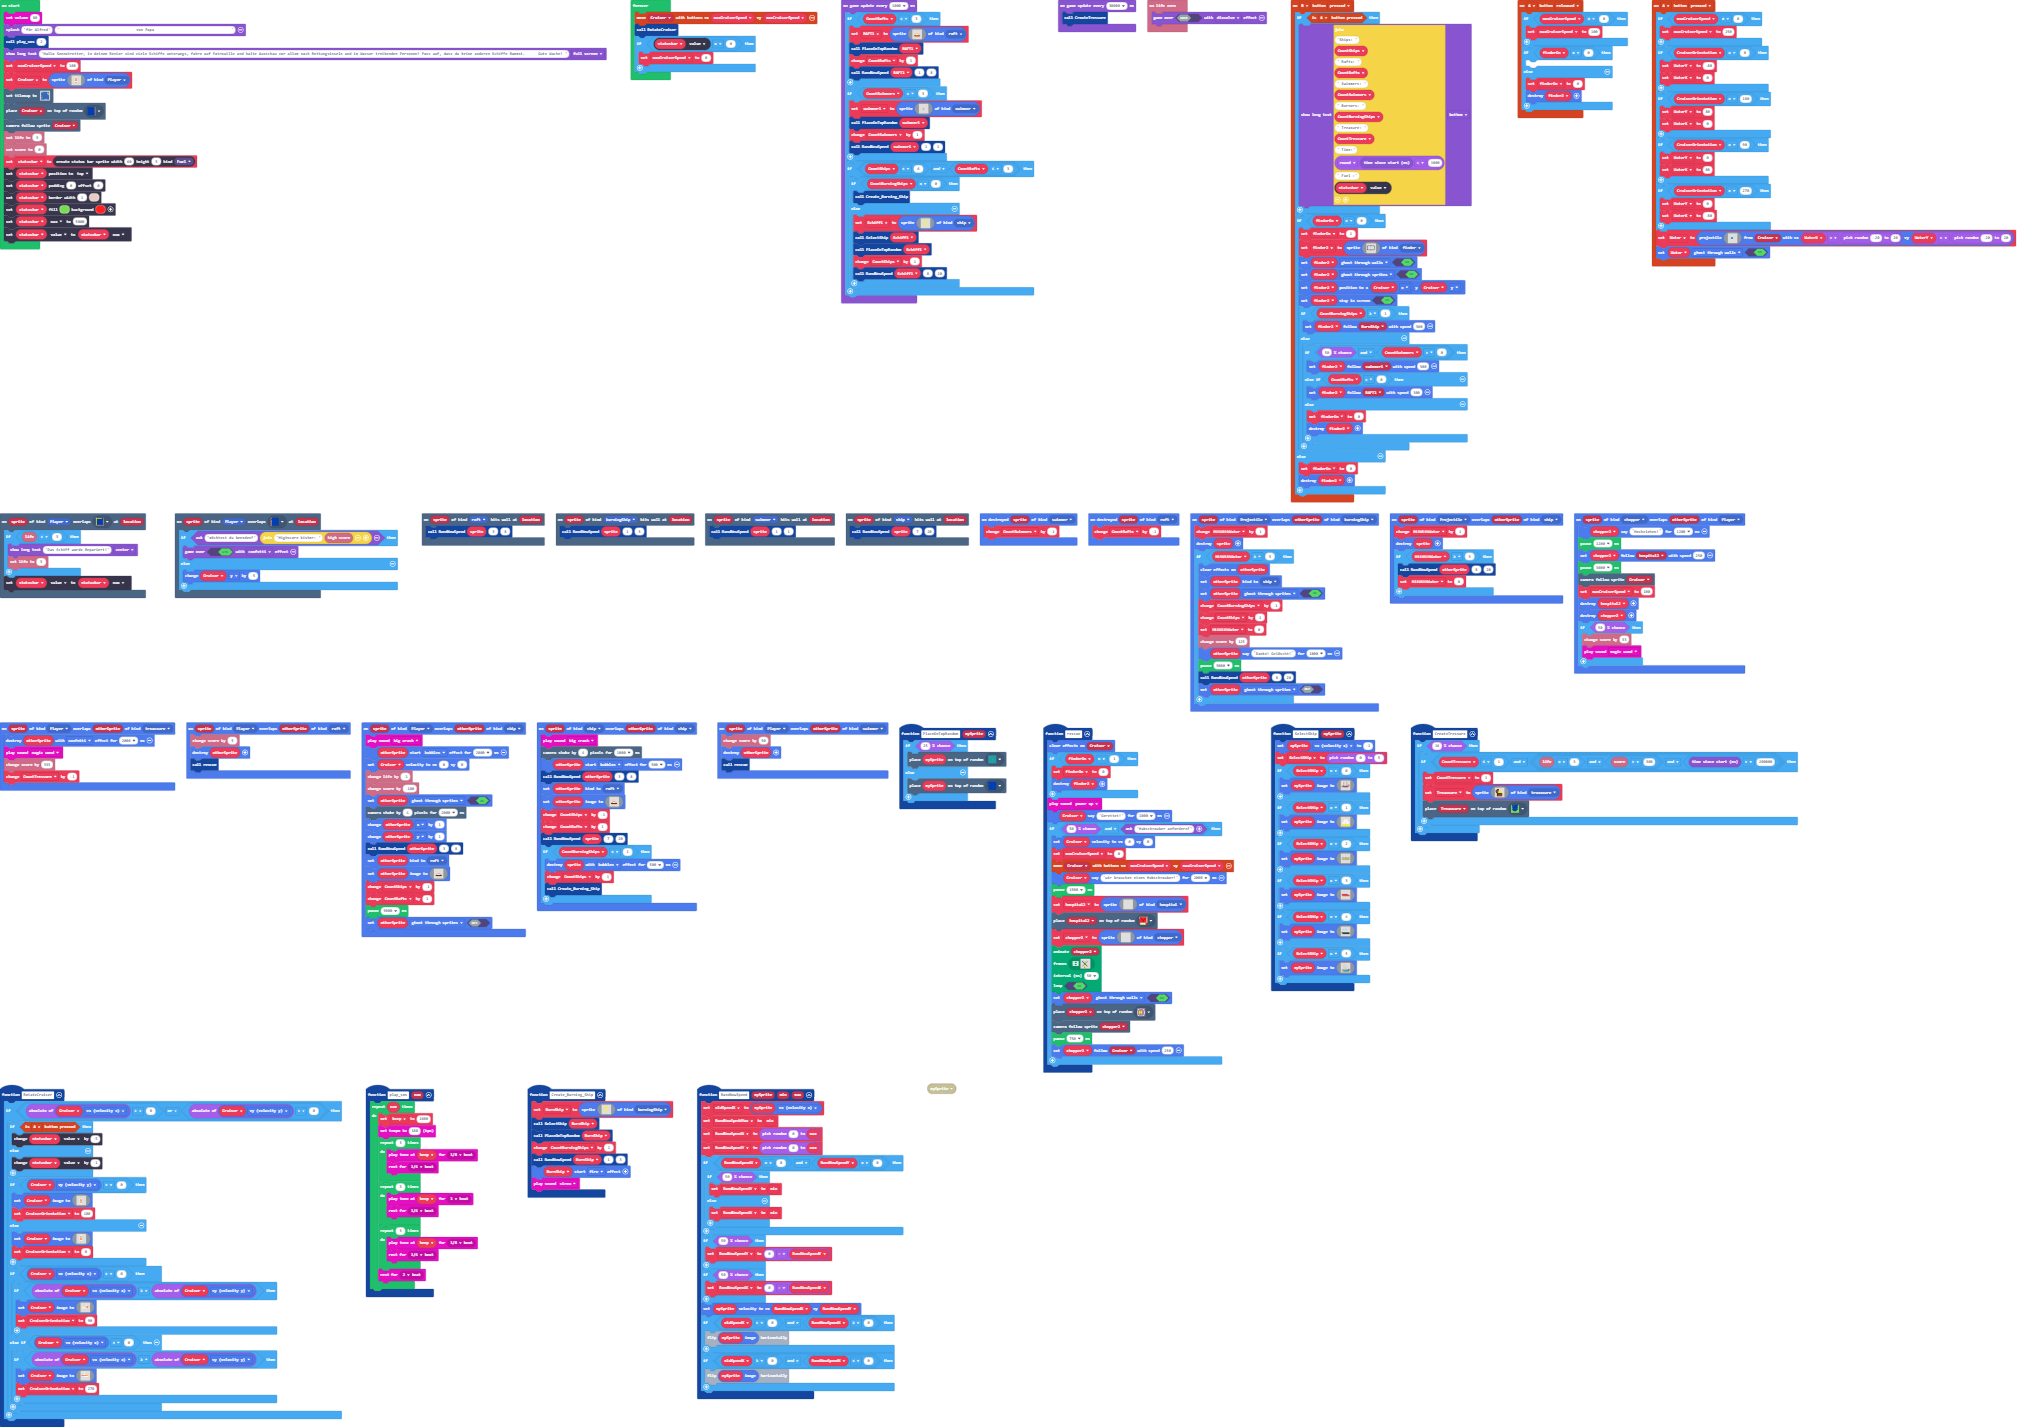
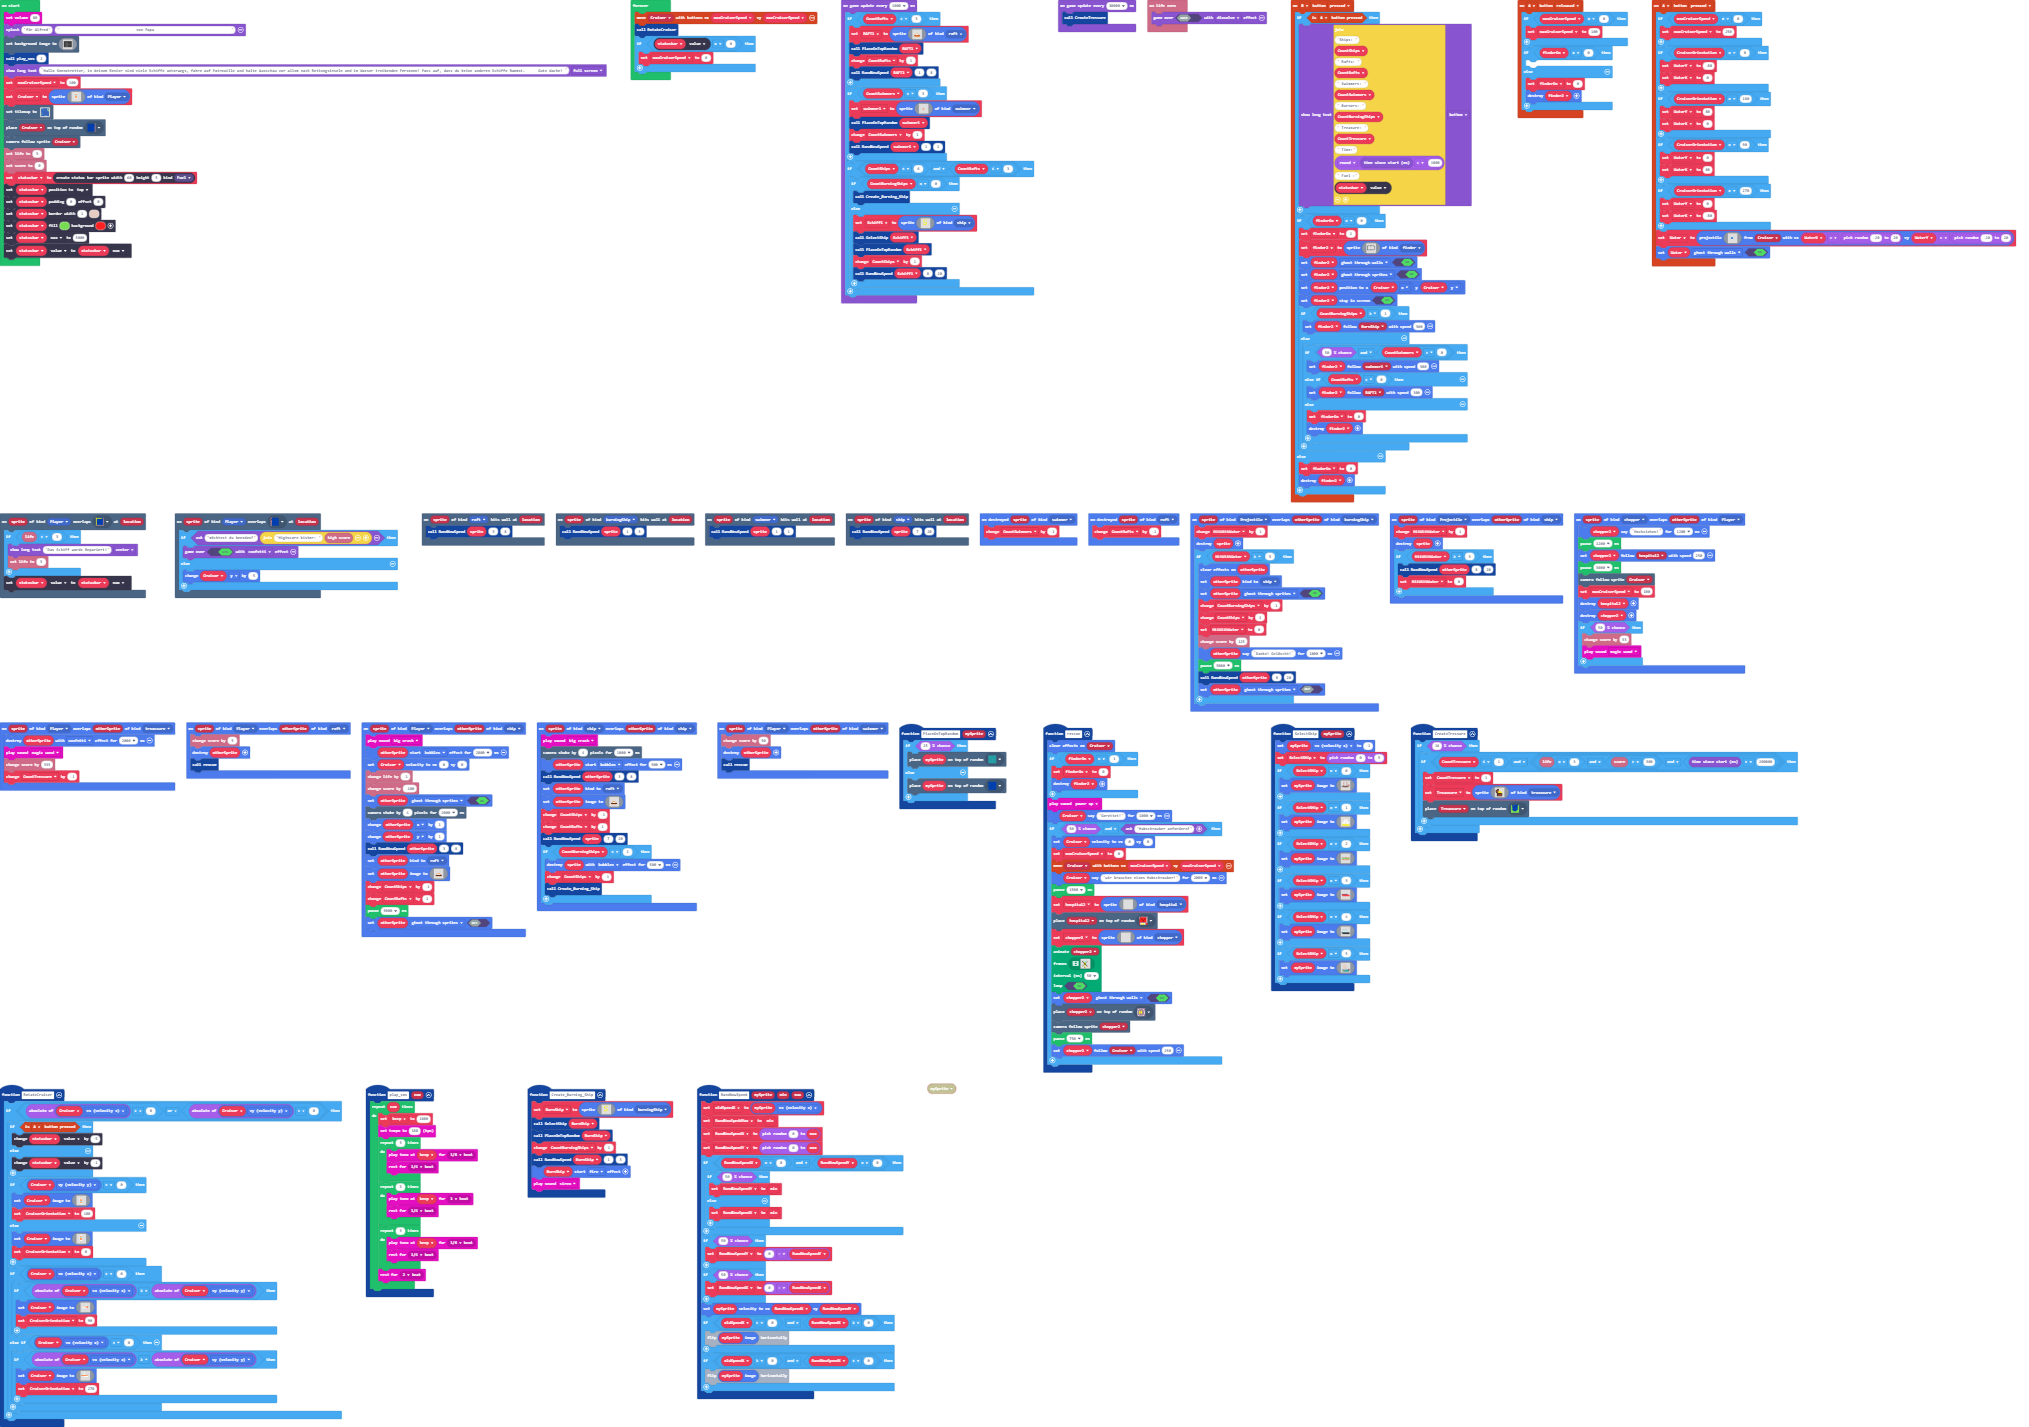
Update main.blocks, main.ts

Changed region(s): [[0.0, 0.0, 0.3105, 0.185]]

diff --git a/main.ts b/main.ts
@@ -596,6 +596,128 @@ let Cruiser: Sprite = null
 let maxCruiserSpeed = 0
 music.setVolume(80)
 game.splash("für Alfred", "                                   von Papa                                   ")
+scene.setBackgroundImage(img`
+    ffffffffffffffffffffffffffffffffffffffffffffffffffffffffffffffffffffffffffffffffffffffffffffffffffffffffffffffffffffffffffffffffffffffffffffffffffffffffffffffff
+    ffffffffffffffffffffffffffffffffffffffffffffffffffffffffffffffffffffffffffffffffffffffffffffffffffffffffffffffffffffffffffffffffffffffffffffffffffffffffffffffff
+    ffffffffffffffffffffffffffffffffffffffffffffffffffffffffffffffffffffffffffffffffffffffffffffffffffffffffffffffffffffffffffffffffffffffffffffffffffffffffffffffff
+    ffffffffffffffffffffffffffffffffffffffffffffffffffffffffffffffffffffffffffffffffffffffffffffffffffffffffffffffffffffffffffffffffffffffffffffffffffffffffffffffff
+    ffffffffffffffffffffffffffffffffffffffffffffffffffffffffffffffffffffffffffffffffffffffffffffffffffffffffffffffffffffffffffffffffffffffffffffffffffffffffffffffff
+    ffffffffffffffffffffffffffffffffffffffffffffffffffffffffffffffffffffffffffffffffffffffffffffffffffffffffffffffffffffffffffffffffffffffffffffffffffffffffffffffff
+    ffffffffffffffffffffffffffffffffffffffffffffffffffffffffffffffffffffffffffffffffffffffffffffffffffffffffffffffffffffffffffffffffffffffffffffffffffffffffffffffff
+    ffffffffffffffffffffffffffffffffffffffffffffffffffffffffffffffffffffffffffffffffffffffffffffffffffffffffffffffffffffffffffffffffffffffffffffffffffffffffffffffff
+    ffffffffffffffffffffffffffffffffffffffffffffffffffffffffffffffffffffffffffffffffffffffffffffffffffffffffffffffffffffffffffffffffffffffffffffffffffffffffffffffff
+    ffffffffffffffffffffffffffffffffffffffffffffffffffffffffffffffffffffffffffffffffffffffffffffffffffffffffffffffffffffffffffffffffffffffffffffffffffffffffffffffff
+    ffffffffffffffffffffffffffffffffffffffffffffffffffffffffffffffffffffffffffffffffffffffffffffffffffffffffffffffffffffffffffffffffffffffffffffffffffffffffffffffff
+    ffffffffffffffffffffffffffffffffffffffffffffffffffffffffffffffffffffffffffffffffffffffffffffffffffffffffffffffffffffffffffffffffffffffffffffffffffffffffffffffff
+    ffffffffffffffffffffffffffffffffffffffffffffffffffffffffffffffffffffffffffffffffffffffffffffffffffffffffffffffffffffffffffffffffffffffffffffffffffffffffffffffff
+    ffffffffffffffffffffffffffffffffffffffffffffffffffffffffffffffffffffffffffffffffffffffffffffffffffffffffffffffffffffffffffffffffffffffffffffffffffffffffffffffff
+    ffffffffffffffffffffffffffffffffffffffffffffffffffffffffffffffffffffffffffffffffffffffffffffffffffffffffffffffffffffffffffffffffffffffffffffffffffffffffffffffff
+    ffffffffffffffffffffffffffffffffffffffffffffffffffffffffffffffffffffffffffffffffffffffffffffffffffffffffffffffffffffffffffffffffffffffffffffffffffffffffffffffff
+    ffffffffffffffffffffffffffffffffffffffffffffffffffffffffffffffffffffffffffffffffffffffffffffffffffffffffffffffffffffffffffffffffffffffffffffffffffffffffffffffff
+    ffffffffffffffffffffffffffffffffffffffffffffffffffffffffffffffffffffffffffffffffffffffffffffffffffffffffffffffffffffffffffffffffffffffffffffffffffffffffffffffff
+    ffffffffffffffffffffffffffffffffffffffffffffffffffffffffffffffffffffffffffffffffffffffffffffffffffffffffffffffffffffffffffffffffffffffffffffffffffffffffffffffff
+    ffffffffffffffffffffffffffffffffffffffffffffffffffffffffffffffffffffffffffffffffffffffffffffffffffffffffffffffffffffffffffffffffffffffffffffffffffffffffffffffff
+    ffffffffffffffffffffffffffffffffffffffffffffffffffffffffffffffffffffffffffffffffffffffffffffffffffffffffffffffffffffffffffffffffffffffffffffffffffffffffffffffff
+    ffffffffffffffffffffffffffffffffffffffffffffffffffffffffffffffffffffffffffffffffffffffffffffffffffffffffffffffffffffffffffffffffffffffffffffffffffffffffffffffff
+    ffffffffffffffffffffffffffffffffffffffffffffffffffffffffffffffffffffffffffffffffffffffffffffffffffffffffffffffffffffffffffffffffffffffffffffffffffffffffffffffff
+    ffffffffffffffffffffffffffffffffffffffffffffffffffffffffffffffffffffffffffffffffffffffffffffffffffffffffffffffffffffffffffffffffffffffffffffffffffffffffffffffff
+    ffffffffffffffffffffffffffffffffffffffffffffffffffffffffffffffffffffffffffffffffffffffffffffffffffffffffffffffffffffffffffffffffffffffffffffffffffffffffffffffff
[8 lines of base64/hex data omitted]
+    ffffffffffffffffffffffffffffffffffffffffffffffffffffffffffffffffffffffffffffffffffffffffffffffffffffffffffffffffffffffffffffffffffffffffffffffffffffffffffffffff
+    ffffffffffffffffffffffffffffffffffffffffffffffffffffffffffffffffffffffffffffffffffffffffffffffffffffffffffffffffffffffffffffffffffffffffffffffffffffffffffffffff
+    ffffffffffffffffffffffffffffffffffffffffffffffffffffffffffffffffffffffffffffffffffffffffffffffffffffffffffffffffffffffffffffffffffffffffffffffffffffffffffffffff
+    ffffffffffffffffffffffffffffffffffffffffffffffffffffffffffffffffffffffffffffffffffffffffffffffffffffffffffffffffffffffffffffffffffffffffffffffffffffffffffffffff
+    ffffffffffffffffffffffffffffffffffffffffffffffffffffffffffffffffffffffffffffffffffffffffffffffffffffffffffffffffffffffffffffffffffffffffffffffffffffffffffffffff
+    ffffffffffffffffffffffffffffffffffffffffffffffffffffffffffffffffffffffffffffffffffffffffffffffffffffffffffffffffffffffffffffffffffffffffffffffffffffffffffffffff
+    ffffffffffffffffffffffffffffffffffffffffffffffffffffffffffffffffffffffffffffffffffffffffffffffffffffffffffffffffffffffffffffffffffffffffffffffffffffffffffffffff
+    ffffffffffffffffffffffffffffffffffffffffffffffffffffffffffffffffffffffffffffffffffffffffffffffffffffffffffffffffffffffffffffffffffffffffffffffffffffffffffffffff
+    ffffffffffffffffffffffffffffffffffffffffffffffffffffffffffffffffffffffffffffffffffffffffffffffffffffffffffffffffffffffffffffffffffffffffffffffffffffffffffffffff
[7 lines of base64/hex data omitted]
+    ffffffffffffffffffffffffffffffffffffffffffffffffffffffffffffffffffffffffff1fffffffffffffffffffffffffffffffffffffffffffffffffffffffffffffffffffffffffffffffffffff
+    ffffffffffffffffffffffffffffffffffffffffffffffffffffffffffffffffffffffffff1fffffffffffffffffffffffffffffffffffffffffffffffffffffffffffffffffffffffffffffffffffff
[1 lines of base64/hex data omitted]
+    ffffffffffffffffffffffffffffffffffffffffffffffffffffffffffffffffffffffffffffffffffffffffffffffffffffffffffffffffffffffffffffffffffffffffffffffffffffffffffffffff
+    ffffffffffffffffffffffffffffffffffffffffffffffffffffffffffffffffffffffffffffffffffffffffffffffffffffffffffffffffffffffffffffffffffffffffffffffffffffffffffffffff
+    ffffffffffffffffffffffffffffffffffffffffffffffffffffffffffffffffffffffffffffffffffffffffffffffffffffffffffffffffffffffffffffffffffffffffffffffffffffffffffffffff
+    ffffffffffffffffffffffffffffffffffffffffffffffffffffffffffffffffffffffffffffffffffffffffffffffffffffffffffffffffffffffffffffffffffffffffffffffffffffffffffffffff
+    ffffffffffffffffffffffffffffffffffffffffffffffffffffffffffffffffffffffffffffffffffffffffffffffffffffffffffffffffffffffffffffffffffffffffffffffffffffffffffffffff
+    ffffffffffffffffffffffffffffffffffffffffffffffffffffffffffffffffffffffffffffffffffffffffffffffffffffffffffffffffffffffffffffffffffffffffffffffffffffffffffffffff
+    ffffffffffffffffffffffffffff5fffffffffffffffffffffffffffffffffffffffffffffffffffffffffffffffffffffffffffffffffffffffffffffffffffffffffffffffffffffffffffffffffff
[10 lines of base64/hex data omitted]
+    ffffffffffffffffffffffffffffffffffffffffffffffffffffffffffffff1fffffffffffffffffffffffffffffffffffffffffffffffffffffffffffffffffffffffffffffffffffffffffffffffff
+    ffffffffffffffffffffffffffffffffffffffffffffffffffffffffffffffffffffffffffffffffffffffffffffffffffffffffffffffffffffffffffffffffffffffffffffffffffffffffffffffff
+    ffffffffffffffffffffffffffffffffffffffffffffffffffffffffffffffffffffffffffffffffffffffffffffffffffffffffffffffffffffffffffffffffffffffffffffffffffffffffffffffff
+    ffffffffffffffffffffffffffffffffffffffffffffffffffffffffffffffffffffffffffffffffffffffffffffffffffffffffffffffffffffffffffffffffffffffffffffffffffffffffffffffff
+    ffffffffffffffffffffffffffffffffffffffffffffffffffffffffffffffffffffffffffffffffffffffffffffffffffffffffffffffffffffffffffffffffffffffffffffffffffffffffffffffff
+    ffffffffffffffffffffffffffffffffffffffffffffffffffffffffffffffffffffffffffffffffffffffffffffffffffffffffffffffffffffffffffffffffffffffffffffffffffffffffffffffff
+    ffffffffffffffffffffffffffffffffffffffffffffffffffffffffffffffffffffffffffffffffffffffffffffffffffffffffffffffffffffffffffffffffffffffffffffffffffffffffffffffff
+    ffffffffffffffffffffffffffffffffffffffffffffffffffffffffffffffffffffffffffffffffffffffffffffffffffffffffffffffffffffffffffffffffffffffffffffffffffffffffffffffff
+    ffffffffffffffffffffffffffffffffffffffffffffffffffffffffffffffffffffffffffffffffffffffffffffffffffffffffffffffffffffffffffffffffffffffffffffffffffffffffffffffff
+    ffffffffffffffffffffffffffffffffffffffffffffffffffffffffffffffffffffffffffffffffffffffffffffffffffffffffffffffffffffffffffffffffffffffffffffffffffffffffffffffff
+    ffffffffffffffffffffffffffffffffffffffffffffffffffffffffffffffffffffffffffffffffffffffffffffffffffffffffffffffffffffffffffffffffffffffffffffffffffffffffffffffff
+    ffffffffffffffffffffffffffffffffffffffffffffffffffffffffffffffffffffffffffffffffffffffffffffffffffffffffffffffffffffffffffffffffffffffffffffffffffffffffffffffff
[8 lines of base64/hex data omitted]
+    ffffffffffffffffffffffffffffffffffffffffffffffffffffffffffffffffffffffffffffffffffffffffffffffffffffffffffffffffffffffffffffffffffffffffffffffffffffffffffffffff
+    ffffffffffffffffffffffffffffffffffffffffffffffffffffffffffffffffffffffffffffffffffffffffffffffffffffffffffffffffffffffffffffffffffffffffffffffffffffffffffffffff
+    ffffffffffffffffffffffffffffffffffffffffffffffffffffffffffffffffffffffffffffffffffffffffffffffffffffffffffffffffffffffffffffffffffffffffffffffffffffffffffffffff
+    ffffffffffffffffffffffffffffffffffffffffffffffffffffffffffffffffffffffffffffffffffffffffffffffffffffffffffffffffffffffffffffffffffffffffffffffffffffffffffffffff
+    ffffffffffffffffffffffffffffffffffffffffffffffffffffffffffffffffffffffffffffffffffffffffffffffffffffffffffffffffffffffffffffffffffffffffffffffffffffffffffffffff
+    ffffffffffffffffffffffffffffffffffffffffffffffffffffffffffffffffffffffffffffffffffffffffffffffffffffffffffffffffffffffffffffffffffffffffffffffffffffffffffffffff
+    ffffffffffffffffffffffffffffffffffffffffffffffffffffffffffffffffffffffffffffffffffffffffffffffffffffffffffffffffffffffffffffffffffffffffffffffffffffffffffffffff
+    ffffffffffffffffffffffffffffffffffffffffffffffffffffffffffffffffffffffffffffffffffffffffffffffffffffffffffffffffffffffffffffffffffffffffffffffffffffffffffffffff
+    ffffffffffffffffffffffffffffffffffffffffffffffffffffffffffffffffffffffffffffffffffffffffffffffffffffffffffffffffffffffffffffffffffffffffffffffffffffffffffffffff
+    ffffffffffffffffffffffffffffffffffffffffffffffffffffffffffffffffffffffffffffffffffffffffffffffffffffffffffffffffffffffffffffffffffffffffffffffffffffffffffffffff
[8 lines of base64/hex data omitted]
+    ffffffffffffffffffffffffffffffffffffffffffffffffffffffffffffffffffffffffffffffffffffffffffffffffffffffffffffffffffffffffffffffffffffffffffffffffffffffffffffffff
+    ffffffffffffffffffffffffffffffffffffffffffffffffffffffffffffffffffffffffffffffffffffffffffffffffffffffffffffffffffffffffffffffffffffffffffffffffffffffffffffffff
+    ffffffffffffffffffffffffffffffffffffffffffffffffffffffffffffffffffffffffffffffffffffffffffffffffffffffffffffffffffffffffffffffffffffffffffffffffffffffffffffffff
+    ffffffffffffffffffffffffffffffffffffffffffffffffffffffffffffffffffffffffffffffffffffffffffffffffffffffffffffffffffffffffffffffffffffffffffffffffffffffffffffffff
+    ffffffffffffffffffffffffffffffffffffffffffffffffffffffffffffffffffffffffffffffffffffffffffffffffffffffffffffffffffffffffffffffffffffffffffffffffffffffffffffffff
+    ffffffffffffffffffffffffffffffffffffffffffffffffffffffffffffffffffffffffffffffffffffffffffffffffffffffffffffffffffffffffffffffffffffffffffffffffffffffffffffffff
+    ffffffffffffffffffffffffffffffffffffffffffffffffffffffffffffffffffffffffffffffffffffffffffffffffffffffffffffffffffffffffffffffffffffffffffffffffffffffffffffffff
+    ffffffffffffffffffffffffffffffffffffffffffffffffffffffffffffffffffffffffffffffffffffffffffffffffffffffffffffffffffffffffffffffffffffffffffffffffffffffffffffffff
+    ffffffffffffffffffffffffffffffffffffffffffffffffffffffffffffffffffffffffffffffffffffffffffffffffffffffffffffffffffffffffffffffffffffffffffffffffffffffffffffffff
+    ffffffffffffffffffffffffffffffffffffffffffffffffffffffffffffffffffffffffffffffffffffffffffffffffffffffffffffffffffffffffffffffffffffffffffffffffffffffffffffffff
+    ffffffffffffffffffffffffffffffffffffffffffffffffffffffffffffffffffffffffffffffffffffffffffffffffffffffffffffffffffffffffffffffffffffffffffffffffffffffffffffffff
+    ffffffffffffffffffffffffffffffffffffffffffffffffffffffffffffffffffffffffffffffffffffffffffffffffffffffffffffffffffffffffffffffffffffffffffffffffffffffffffffffff
+    ffffffffffffffffffffffffffffffffffffffffffffffffffffffffffffffffffffffffffffffffffffffffffffffffffffffffffffffffffffffffffffffffffffffffffffffffffffffffffffffff
+    `)
 play_sos(2)
 game.showLongText("Hallo Seenotretter, in deinem Revier sind viele Schiffe unterwegs, fahre auf Patrouille und halte Ausschau vor allem nach Rettungsinseln und im Wasser treibenden Personen! Pass auf, dass du keine anderen Schiffe Rammst.      Gute Wache! ", DialogLayout.Full)
 maxCruiserSpeed = 100
